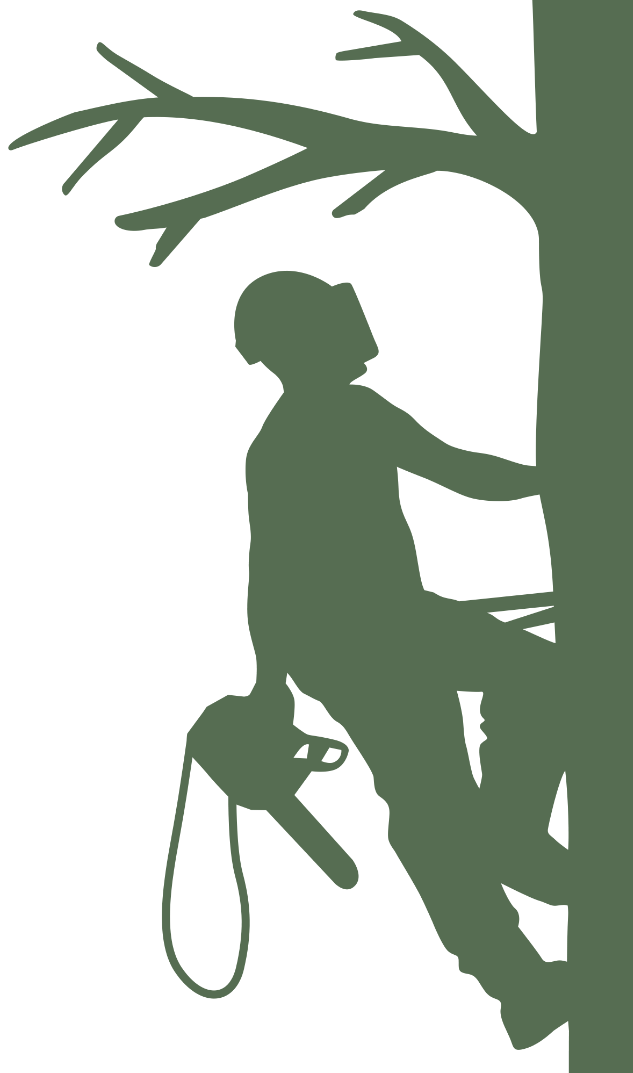
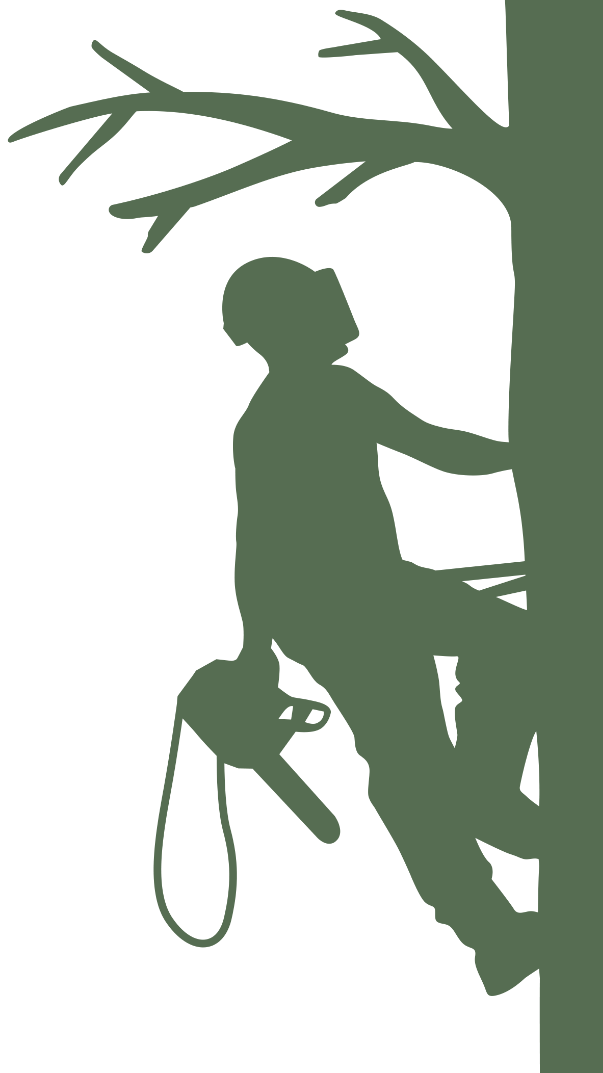
commit_9

diff --git a/app/page.js b/app/page.js
@@ -9,55 +9,58 @@ export default async function Home() {
   const postList = await fetchPages();
   const firstFourPosts = postList.results.slice(0, 4);
   return (
-    <main className="grid grid-rows-2 relative">
-      <div className="relative z-10 min-h-screen grid grid-flow-row max-w-4xl w-full mx-auto ">
-        <section className="self-end">
-          <div className="flex items-baseline pt-6 pb-3 flex-wrap px-6">
-            <Image
-              alt="beaver logo"
-              src="/beaver.png"
-              width={200}
-              height={200}
-              className="w-36 object-contain"
-            />
-            <h1 className="text-7xl h-16 pl-4 sm:pl-1 pt-2 sm:pt-0 text-beige-400 font-serif uppercase">
-              Bever&apos;n
-            </h1>
-          </div>
-          <p className="leading-relaxed text-lg paddingX">
-            Jeg elsker trær, men noen ganger må de fjernes eller beskjæres og da
-            gjør jeg gjerne jobben for deg. Står treet vanskelig til kan jeg
-            klatre opp og felle det bit for bit, og vil du at jeg kjører alt
-            bort ordner jeg det også. Kanskje du vil ha ved istedenfor tre? Da
-            kan jeg kløyve og stable det opp til tørk. Hvis du er så heldig å ha
-            trær som egner seg til å lage noen unike bordplater eller annet
-            interiør av, tar jeg gjerne en kreativ prat om det.
-          </p>
-        </section>
-        <section className="group z-10 relative sm:px-10 pt-5 self-end sm:self-start">
-          <div className="grid grid-cols-2 sm:grid-cols-4 group-hover:brightness-105 cursor-pointer transition duration-300 ease-in-out">
-            {firstFourPosts.map((post) => {
-              return (
-                <Image
-                  alt="jobb logg bilder"
-                  key={post.id}
-                  src={post.cover.external.url}
-                  height={650}
-                  width={650}
-                  className="object-cover flex h-full"
-                />
-              );
-            })}
-          </div>
-          <button className="text-4xl font-serif py-5 text-beige-400 ml-10 sm:ml-0">
-            Gå til jobb logg{' '}
-            <LuArrowRight className="inline-block group-hover:animate-arrow ml-1 font-serif" />
-          </button>
-        </section>
-      </div>
+    <>
+      <div className="fixed z-0 right-0 bg-[url('/treeclimber_green.png')] min-h-screen w-[633px] bg-opacity-40 bg-no-repeat bg-right" />
+      <main className="grid grid-rows-2 relative">
+        <div className="relative z-10 min-h-screen grid grid-flow-row max-w-4xl w-full mx-auto ">
+          <section className="self-end">
+            <div className="flex items-baseline pt-6 pb-3 flex-wrap px-6">
+              <Image
+                alt="beaver logo"
+                src="/beaver.png"
+                width={200}
+                height={200}
+                className="w-36 object-contain"
+              />
+              <h1 className="text-7xl h-16 pl-4 sm:pl-1 pt-2 sm:pt-0 text-beige-400 font-serif uppercase">
+                Bever&apos;n
+              </h1>
+            </div>
+            <p className="leading-relaxed text-lg paddingX">
+              Jeg elsker trær, men noen ganger må de fjernes eller beskjæres og
+              da gjør jeg gjerne jobben for deg. Står treet vanskelig til kan
+              jeg klatre opp og felle det bit for bit, og vil du at jeg kjører
+              alt bort ordner jeg det også. Kanskje du vil ha ved istedenfor
+              tre? Da kan jeg kløyve og stable det opp til tørk. Hvis du er så
+              heldig å ha trær som egner seg til å lage noen unike bordplater
+              eller annet interiør av, tar jeg gjerne en kreativ prat om det.
+            </p>
+          </section>
+          <section className="group z-10 relative sm:px-10 pt-5 self-end sm:self-start">
+            <div className="grid grid-cols-2 sm:grid-cols-4 group-hover:brightness-105 cursor-pointer transition duration-300 ease-in-out">
+              {firstFourPosts.map((post) => {
+                return (
+                  <Image
+                    alt="jobb logg bilder"
+                    key={post.id}
+                    src={post.cover.external.url}
+                    height={650}
+                    width={650}
+                    className="object-cover flex h-full"
+                  />
+                );
+              })}
+            </div>
+            <button className="text-4xl font-serif py-5 text-beige-400 ml-10 sm:ml-0">
+              Gå til jobb logg{' '}
+              <LuArrowRight className="inline-block group-hover:animate-arrow ml-1 font-serif" />
+            </button>
+          </section>
+        </div>
 
-      <Contact />
-      <Footer />
-    </main>
+        <Contact />
+        <Footer />
+      </main>
+    </>
   );
 }

diff --git a/app/layout.js b/app/layout.js
@@ -27,7 +27,6 @@ export default function RootLayout({ children }) {
       <body
         className={`${inter.className} ${mogra.variable} ${jakartaSans.variable}  bg-sea_green-300 text-beige font-sans`}
       >
-        <div className="fixed z-0 right-0 bg-[url('/treeclimber_green.png')] min-h-screen w-[633px] opacity-30" />
         {children}
       </body>
     </html>
